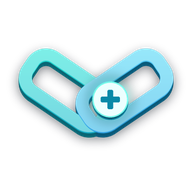
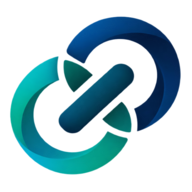
Use official REFLINK artwork across application and printable reports

diff --git a/src/components/dashboards/AnalysisHub.jsx b/src/components/dashboards/AnalysisHub.jsx
@@ -1,3 +1,4 @@
+import { createPortal } from "react-dom";
 import { useEffect, useMemo, useState } from "react";
 import { supabase } from "../../lib/supabase.js";
 import { ageBand, escapeCsvCell, loadBoundedPages } from "../../lib/reportingUtils.js";
@@ -1824,8 +1825,96 @@ function AnalysisHub() {
 
   const activeBreakdowns = breakdownOptions[analysis] || breakdownOptions.diagnosis;
 
+  const executiveMetrics = (
+    <>
+        <div className="intelligence-kpi-grid">
+          <div className="intelligence-kpi">
+            <span>Total Referrals</span>
+            <strong>{phase4Kpis.total}</strong>
+            <small>
+              {phase4Kpis.active} currently active
+            </small>
+          </div>
+
+          <div className="intelligence-kpi">
+            <span>Acknowledgement Rate</span>
+            <strong>
+              {phase4Kpis.acknowledgementRate.toFixed(1)}%
+            </strong>
+            <small>
+              {phase4Kpis.acknowledged} of {phase4Kpis.total}
+            </small>
+          </div>
+
+          <div className="intelligence-kpi">
+            <span>Assessment Rate</span>
+            <strong>
+              {phase4Kpis.assessmentRate.toFixed(1)}%
+            </strong>
+            <small>
+              {phase4Kpis.assessed} assessments recorded
+            </small>
+          </div>
+
+          <div className="intelligence-kpi">
+            <span>Episode Completion</span>
+            <strong>
+              {phase4Kpis.completionRate.toFixed(1)}%
+            </strong>
+            <small>
+              {phase4Kpis.completedEpisodes} completed/discharged
+            </small>
+          </div>
+        </div>
+
+        <div className="intelligence-secondary-grid">
+          <div>
+            <span>Median time to acknowledgement</span>
+            <strong>
+              {phase4Kpis.medianAcknowledgement === null
+                ? "—"
+                : `${phase4Kpis.medianAcknowledgement.toFixed(2)} h`}
+            </strong>
+          </div>
+
+          <div>
+            <span>Median time to assessment</span>
+            <strong>
+              {phase4Kpis.medianAssessment === null
+                ? "—"
+                : `${phase4Kpis.medianAssessment.toFixed(2)} h`}
+            </strong>
+          </div>
+
+          <div>
+            <span>Median episode duration</span>
+            <strong>
+              {phase4Kpis.medianEpisode === null
+                ? "—"
+                : `${phase4Kpis.medianEpisode.toFixed(2)} h`}
+            </strong>
+          </div>
+
+          <div>
+            <span>Discharged / admitted</span>
+            <strong>
+              {phase4Kpis.discharged} / {phase4Kpis.admitted}
+            </strong>
+          </div>
+        </div>
+    </>
+  );
+
   return (
     <section className="analysis-hub">
+      {createPortal(
+        <article className="printable-referral-sheet">
+          <img className="official-document-logo" src="/reflink-logo.png" alt="REFLINK" width="192" height="64" />
+          <h1>Executive Referral Performance</h1>
+          <p>Referral activity for the current analysis filters.</p>
+          {executiveMetrics}
+        </article>, document.body
+      )}
       <div className="analysis-hub-header">
         <div>
           <span className="eyebrow">HEALTHCARE DATA INTELLIGENCE</span>
@@ -2155,81 +2244,7 @@ function AnalysisHub() {
           </div>
         </div>
 
-        <div className="intelligence-kpi-grid">
-          <div className="intelligence-kpi">
-            <span>Total Referrals</span>
-            <strong>{phase4Kpis.total}</strong>
-            <small>
-              {phase4Kpis.active} currently active
-            </small>
-          </div>
-
-          <div className="intelligence-kpi">
-            <span>Acknowledgement Rate</span>
-            <strong>
-              {phase4Kpis.acknowledgementRate.toFixed(1)}%
-            </strong>
-            <small>
-              {phase4Kpis.acknowledged} of {phase4Kpis.total}
-            </small>
-          </div>
-
-          <div className="intelligence-kpi">
-            <span>Assessment Rate</span>
-            <strong>
-              {phase4Kpis.assessmentRate.toFixed(1)}%
-            </strong>
-            <small>
-              {phase4Kpis.assessed} assessments recorded
-            </small>
-          </div>
-
-          <div className="intelligence-kpi">
-            <span>Episode Completion</span>
-            <strong>
-              {phase4Kpis.completionRate.toFixed(1)}%
-            </strong>
-            <small>
-              {phase4Kpis.completedEpisodes} completed/discharged
-            </small>
-          </div>
-        </div>
-
-        <div className="intelligence-secondary-grid">
-          <div>
-            <span>Median time to acknowledgement</span>
-            <strong>
-              {phase4Kpis.medianAcknowledgement === null
-                ? "—"
-                : `${phase4Kpis.medianAcknowledgement.toFixed(2)} h`}
-            </strong>
-          </div>
-
-          <div>
-            <span>Median time to assessment</span>
-            <strong>
-              {phase4Kpis.medianAssessment === null
-                ? "—"
-                : `${phase4Kpis.medianAssessment.toFixed(2)} h`}
-            </strong>
-          </div>
-
-          <div>
-            <span>Median episode duration</span>
-            <strong>
-              {phase4Kpis.medianEpisode === null
-                ? "—"
-                : `${phase4Kpis.medianEpisode.toFixed(2)} h`}
-            </strong>
-          </div>
-
-          <div>
-            <span>Discharged / admitted</span>
-            <strong>
-              {phase4Kpis.discharged} / {phase4Kpis.admitted}
-            </strong>
-          </div>
-        </div>
+        {executiveMetrics}
       </div>
 
       <div className="dashboard-card intelligence-card">

diff --git a/src/App.jsx b/src/App.jsx
@@ -426,17 +426,8 @@ export function PrintReferralSheet({
       <header className="print-document-header">
 
         <div className="print-brand-block">
-          <div className="print-brand-mark">
-            <img src="/reflink-symbol.png" alt="" width="36" height="36" />
-          </div>
-
           <div>
-            <div className="print-brand">REFLINK</div>
-
-            <div className="print-brand-subtitle">
-              DIGITAL REFERRAL & CARE CONTINUITY SYSTEM
-            </div>
-
+            <img className="official-document-logo" src="/reflink-logo.png" alt="REFLINK" width="192" height="64" />
             <h1>Patient Referral Form</h1>
 
             <p>
@@ -2250,7 +2241,7 @@ const handleSignIn = async () => {
 
           <div className="login-card">
 
-            <img className="official-login-logo" src="/reflink-logo.png" width="192" height="63" alt="REFLINK" />
+            <img className="official-login-logo" src="/reflink-logo.png" width="192" height="64" alt="REFLINK" />
 
             <h2>
               Sign in to REFLINK
@@ -2331,7 +2322,7 @@ const handleSignIn = async () => {
       {screen === "change-password" && (
         <div className="login-page password-page">
           <div className="login-card password-card">
-            <img className="official-login-logo" src="/reflink-logo.png" width="192" height="63" alt="REFLINK" />
+            <img className="official-login-logo" src="/reflink-logo.png" width="192" height="64" alt="REFLINK" />
 
             <span className="eyebrow">
               ACCOUNT SECURITY

diff --git a/src/components/dashboards/PublicHealthIntelligence.jsx b/src/components/dashboards/PublicHealthIntelligence.jsx
@@ -52,7 +52,7 @@ export default function PublicHealthIntelligence() {
   };
 
   return <section className="dashboard-card" aria-labelledby="rphi-title">
-    <span className="eyebrow">R-PHI</span>
+    <img className="official-document-logo" src="/reflink-logo.png" alt="" width="192" height="64" />
     <h2 id="rphi-title">REFLINK Public Health Intelligence</h2>
     <p>Institutional aggregate reports for authorized planning. These reports describe recorded referral activity, not population incidence, prevalence or confirmed outbreaks.</p>
     <p>Coverage depends on participating facilities, recording completeness and referral selection. Missing values and suppressed counts are not zero. External sharing requires disclosure review.</p>

diff --git a/src/reflink-logo.css b/src/reflink-logo.css
@@ -7,11 +7,22 @@
   margin: 0 auto 1rem;
   padding: .4rem .6rem;
   border-radius: .6rem;
-  background: #123640;
+  background: white;
 }
 .brand-mark img, .print-brand-mark img, .admin-sidebar-logo img {
   display: block;
   max-width: 100%;
   max-height: 100%;
   object-fit: contain;
+}
+
+.official-document-logo {
+  display: block;
+  width: 12rem;
+  max-width: 100%;
+  height: auto;
+  background: white;
+}
+@media print {
+  .official-document-logo { width: 40mm; }
 }
